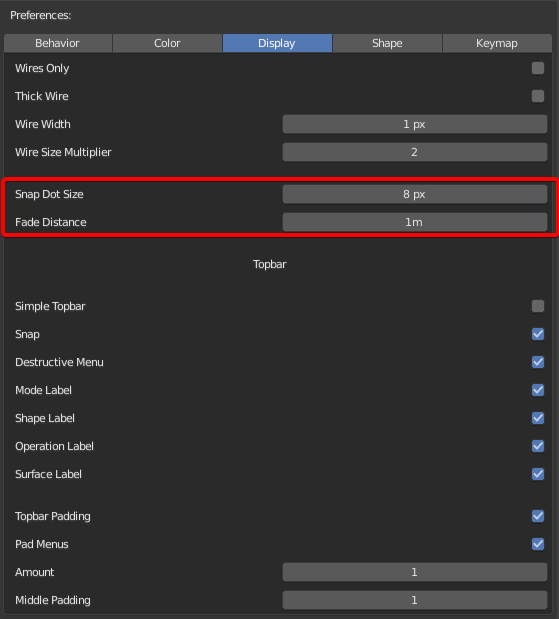
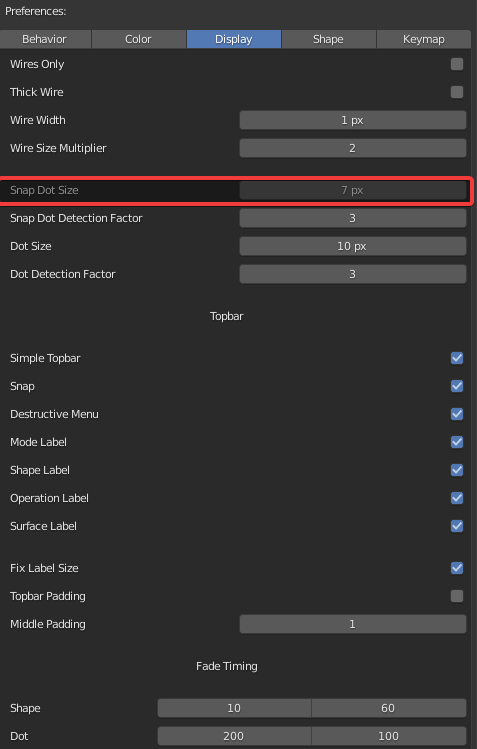
snap
push

diff --git a/docs/snapping.md b/docs/snapping.md
@@ -6,14 +6,16 @@
 
 Snapping can be started from the top bar using the magnet icon.
 
-![snap](img/snap/s1.png)
+![snap](img/snap/s1.gif)
+
+Next to the snap icon is the grid snap icon. By enabling this snap will be enabled along with grid snap.
 
 There is also a dropdown for specifics. You can set snap to:
 
-- increment
+- grid
 - vertice
-- edge
-- face
+- edge midpoint
+- face center
 
 ![snap](img/snap/s12.png)
 
@@ -25,17 +27,23 @@ Snapping has a series of options.
 
 ![snap](img/snap/s3.png)
 
-Holding ctrl with boxcutter active will cause dots to show up for start position when drawing. We'll get to increment snap later.
+Holding ctrl with boxcutter active will cause grid / dots to show up for start position when drawing.
 
 ![snap](img/snap/s4.gif)
 
+# Grid
+
+Grid is next to snap and be enabled by clicking the button. When active grid will show up during ctrl.
+
+![snap](img/snap/s18.gif)
+
 # Adjusting snap dots to perfection
 
-Depending on monitor you may need the dots bigger or just more colorful. Lets get into the prefs.
+Depending on monitor you may need the dots bigger or just more colorful. These can be adjusted via preferences.
 
 ![snap](img/snap/s7.gif)
 
-In the prefs I adjusted the dots using the dot size and fade distance.
+In the prefs I adjusted the dots using the dot size.
 
 ![snap](img/snap/s5.png)
 
@@ -51,6 +59,8 @@ Face snapping works well for getting in the center of an are however face alone 
 
 ![snap](img/snap/s8.gif)
 
+> Pressing . (period) during draw will utilize center draw. Making face center draw easier.
+
 # Edge snapping
 
 Currently edge snapping works with the midpoints of edges however we do intend to extend this in the future.
@@ -65,13 +75,15 @@ Last but certainly not least is vert snapping. This one gets the least amount of
 
 # Grid Snapping
 
-When no object is selected you can also use dots from the grid floor as snap points.
+When no object is selected you can also use grid for snapping.
 
 ![snap](img/snap/s15.gif)
 
-> Grid uses world coordinates so users may need to change to world to change orientation of dots.
+> Grid uses world coordinates so users may need to change to world to change orientation of the grid.
 
 ![snap](img/snap/s17.gif)
+
+![snap](img/snap/s17.png)
 
 # Increment Snapping
 
